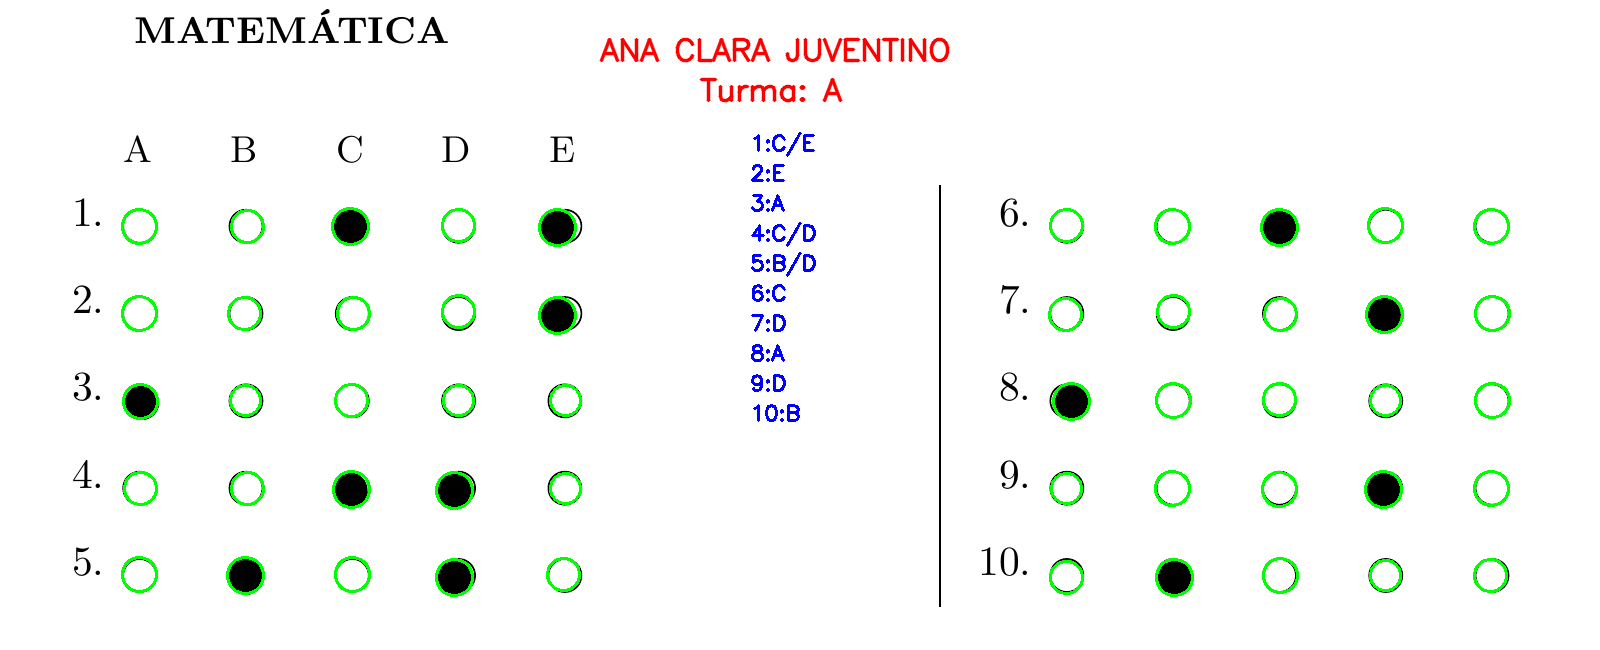
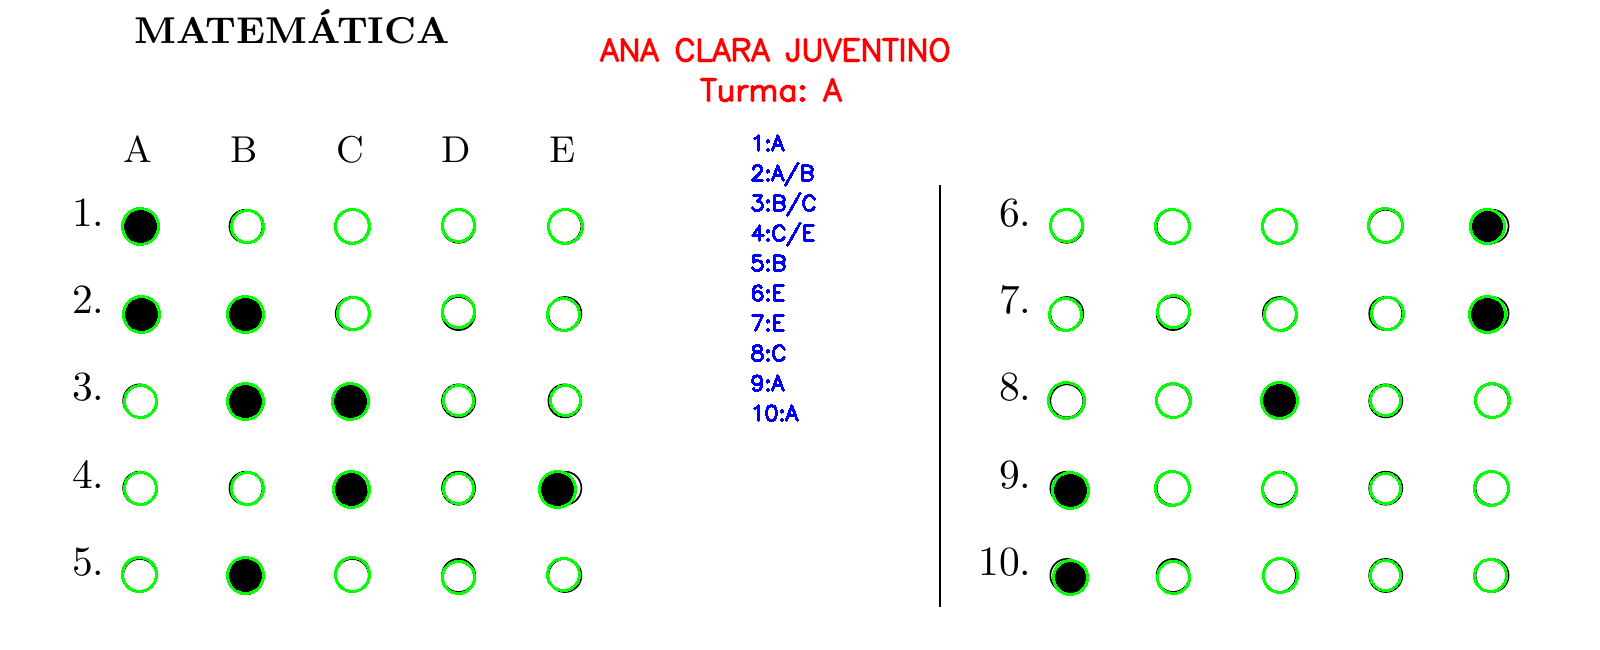
the code to handle questions with two selected answer choices, fixed.

diff --git a/AI/gabarito_answered/detectCirclesToAnswer.py b/AI/gabarito_answered/detectCirclesToAnswer.py
@@ -1,12 +1,12 @@
 import cv2
 import numpy as np
 import pdfplumber
-from icecream import ic
 from collections import defaultdict
+from icecream import ic
 
-# ---------------------------------------------------
+# ------------------------------
 # 1. Ler PDF e extrair nome e turma
-# ---------------------------------------------------
+# ------------------------------
 pdf_path = "circulos_preenchidos.pdf"
 full_text = ""
 
@@ -21,9 +21,9 @@ turma = full_text.split("Turma: ")[1].split("Nome do Aluno(a)")[0].strip()
 print("Nome:", name)
 print("Turma:", turma)
 
-# ---------------------------------------------------
+# ------------------------------
 # 2. Ler gabarito e pré-processar
-# ---------------------------------------------------
+# ------------------------------
 OUT_IMG  = "gabarito_final_CNT_corrected.png"
 img_gray = cv2.imread("edf_cnt_gabarito.png", cv2.IMREAD_GRAYSCALE)
 
@@ -32,9 +32,9 @@ _, thresh = cv2.threshold(img_gray, 50, 255, cv2.THRESH_BINARY_INV)
 kernel = np.ones((3, 3), np.uint8)
 thresh = cv2.morphologyEx(thresh, cv2.MORPH_OPEN, kernel)
 
-# ---------------------------------------------------
-# 3. Detectar círculos pretos por contorno
-# ---------------------------------------------------
+# ------------------------------
+# 3. Detectar círculos pretos
+# ------------------------------
 contours, _ = cv2.findContours(thresh, cv2.RETR_EXTERNAL, cv2.CHAIN_APPROX_SIMPLE)
 circles = []
 for cnt in contours:
@@ -45,23 +45,19 @@ for cnt in contours:
     if perimeter == 0:
         continue
     circularity = 4 * np.pi * (area / (perimeter * perimeter))
-    if 0.7 < circularity <= 1.2:               # razoavelmente circular
+    if 0.7 < circularity <= 1.2:
         (x, y), radius = cv2.minEnclosingCircle(cnt)
-        if radius > 12:                         # ignora ruídos
+        if radius > 12:
             circles.append((int(x), int(y), int(radius)))
 
 print(f"Detectados {len(circles)} círculos pretos")
 
-# ---------------------------------------------------
-# 4. Criar matrizes de coordenadas de referência
-# ---------------------------------------------------
+# ------------------------------
+# 4. Criar matrizes de referência
+# ------------------------------
 img_color = cv2.cvtColor(img_gray, cv2.COLOR_GRAY2BGR)
 
 def build_matrix(x0, y_start=237, n_rows=10, n_cols=5, x_step=106, y_step=83):
-    """
-    Retorna matriz n_rows x n_cols com coordenadas centrais esperadas
-    para cada questão/alternativa.
-    """
     m = np.empty((n_rows, n_cols), dtype=object)
     y = y_start
     for i in range(n_rows):
@@ -72,54 +68,58 @@ def build_matrix(x0, y_start=237, n_rows=10, n_cols=5, x_step=106, y_step=83):
         y += y_step
     return m
 
-matrix1 = build_matrix(141)    # primeira coluna
-matrix2 = build_matrix(1068)   # segunda coluna
+matrix1 = build_matrix(141)    # coluna esquerda
+matrix2 = build_matrix(1068)   # coluna direita
 
-# pontos de referência (opcional para depuração)
+# desenhar pontos de referência
 for matrix in (matrix1, matrix2):
     for row in matrix:
         for (x, y) in row:
             cv2.circle(img_color, (x, y), 5, (0, 255, 0), -1)
 
-# ---------------------------------------------------
-# 5. Detectar respostas múltiplas
-# ---------------------------------------------------
+# ------------------------------
+# 5. Detectar respostas
+# ------------------------------
 jalternative = ['A', 'B', 'C', 'D', 'E']
 
 def detect_answers_multi(circles, matrix, start_q):
-    """
-    Associa as bolhas detectadas às questões e retorna
-    dict {numero_questao: [lista de alternativas]}.
-    """
     out = defaultdict(list)
+    n_rows = matrix.shape[0]
     for cx, cy, _ in circles:
-        for i, linha in enumerate(matrix):
-            qnum = start_q - i
-            for j, (x, y) in enumerate(linha):
-                if np.hypot(cx - x, cy - y) < 25:  # distância euclidiana
+        for i, row in enumerate(matrix):
+            qnum = start_q + i
+            for j, (x, y) in enumerate(row):
+                if np.hypot(cx - x, cy - y) < 30:
                     out[qnum].append(jalternative[j])
+                    # desenhar bolha detectada
+                    cv2.circle(img_color, (cx, cy), 12, (0, 0, 255), 2)
     return dict(out)
 
-answers_col1 = detect_answers_multi(circles, matrix1, 20)
-answers_col2 = detect_answers_multi(circles, matrix2, 30)
+answers_col1 = detect_answers_multi(circles, matrix1, 11)
+answers_col2 = detect_answers_multi(circles, matrix2, 21)
 
-# combinar sem sobrescrever alternativas
+# combinar
 answers_combined = defaultdict(list)
 for k, v in answers_col1.items():
     answers_combined[k].extend(v)
 for k, v in answers_col2.items():
     answers_combined[k].extend(v)
 
+# alerta para múltiplas respostas
+#for q, alts in answers_combined.items():
+#    if len(alts) > 1:
+#        print(f"Atenção: Questão {q} tem múltiplas respostas {alts}")
+
 ic(dict(answers_combined))
 
-# ---------------------------------------------------
-# 6. Anotar respostas, nome e turma na imagem
-# ---------------------------------------------------
-sorted_questions = sorted(answers_combined.keys(), reverse=True)
+# ------------------------------
+# 6. Anotar imagem
+# ------------------------------
+sorted_questions = sorted(answers_combined.keys())  # ordem crescente
 y_base = 200
 for idx, q in enumerate(sorted_questions):
     alts = answers_combined[q]
-    txt = f"{q}:{'/'.join(alts)}"
+    txt = f"{q}: {'/'.join(alts)}"
     cv2.putText(img_color, txt,
                 (650, y_base + 30 * idx),
                 cv2.FONT_HERSHEY_SIMPLEX,
